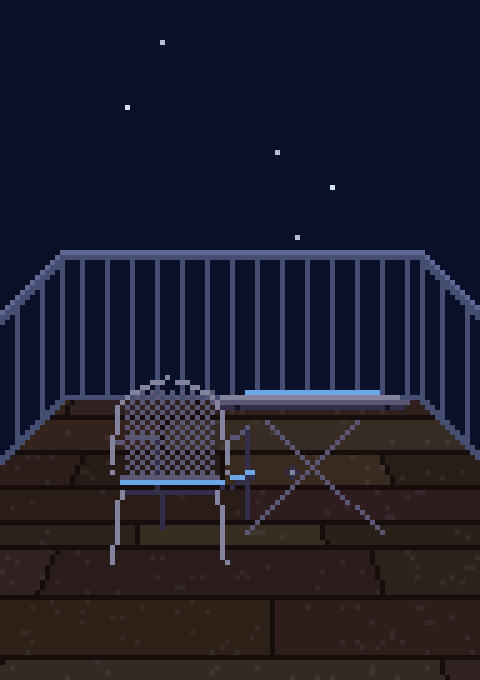
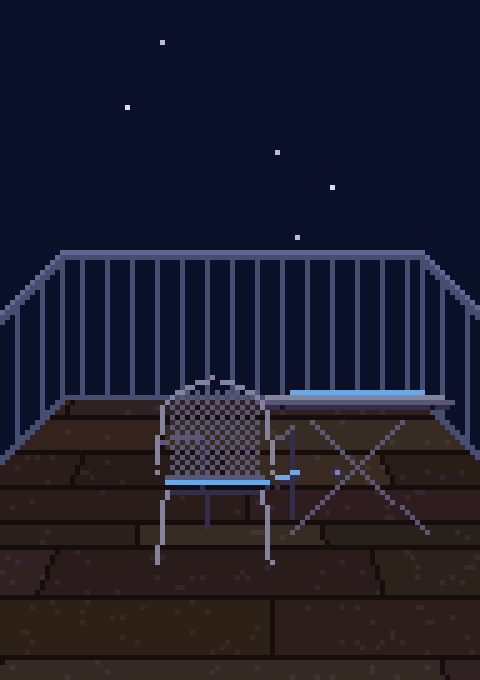
Balcony 2D: furniture shifted right
Claude-Session: https://claude.ai/code/session_01FPZSaKiVNU2zED737yZX4w

diff --git a/tools/render_balcony2d.py b/tools/render_balcony2d.py
@@ -74,7 +74,7 @@ def main():
             for w in range(TW): seg((xx + w, top_y + d + ST), (xx + w, base_y + d - 1), MR)
     # 쇠 의자와 탁자: 땅 위
     t = lib['iron_table']; c = lib['iron_chair']
-    im.alpha_composite(t, (42, 108 - t.height)); im.alpha_composite(c, (18, 114 - c.height))
+    im.alpha_composite(t, (51, 108 - t.height)); im.alpha_composite(c, (27, 114 - c.height))
     # 밤의 색조
     for y in range(H):
         for x in range(W):
